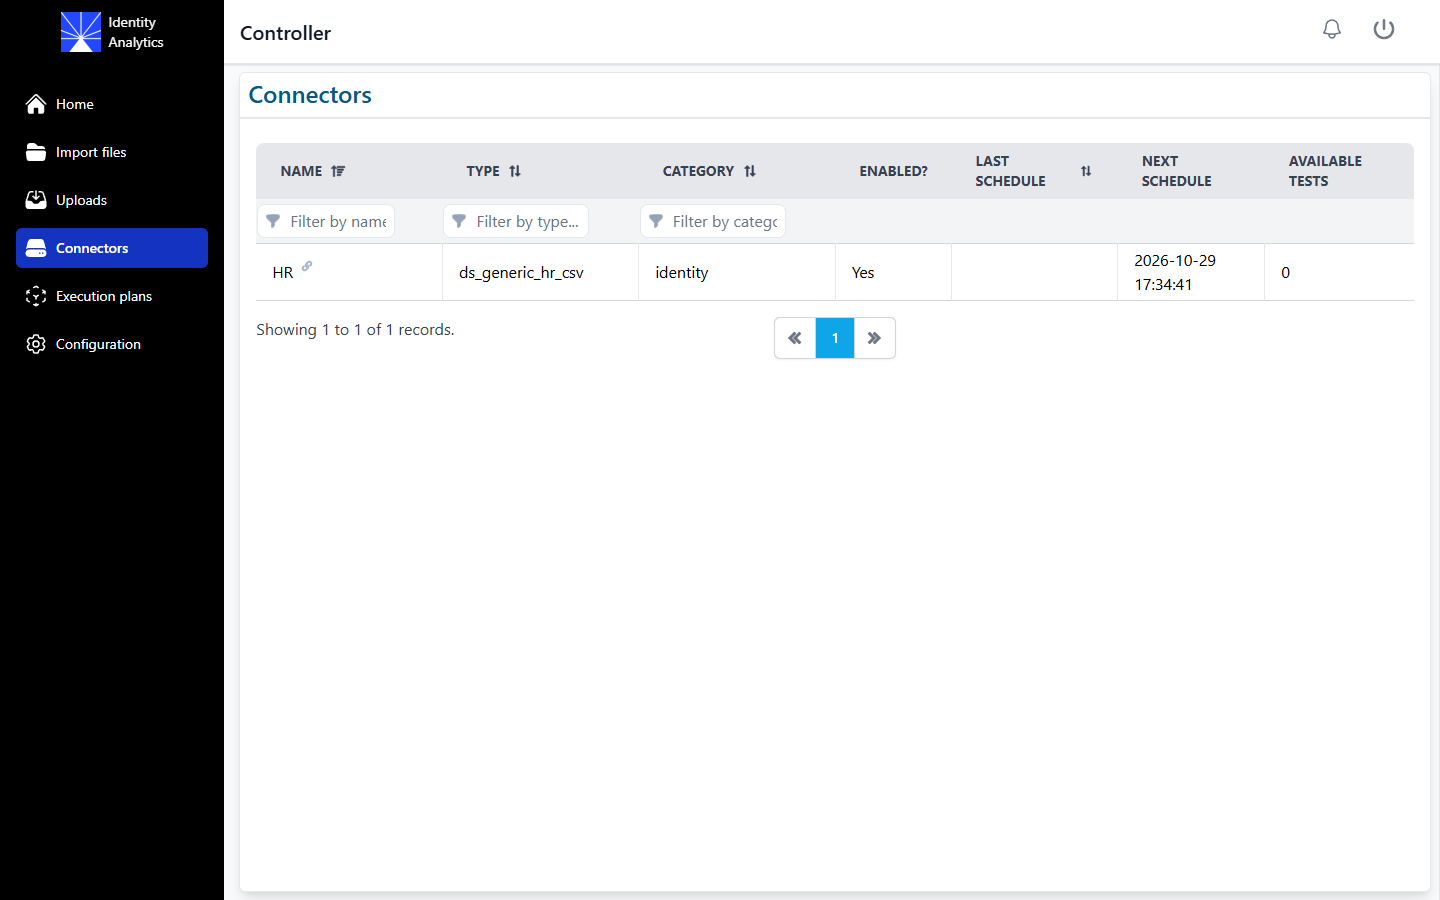
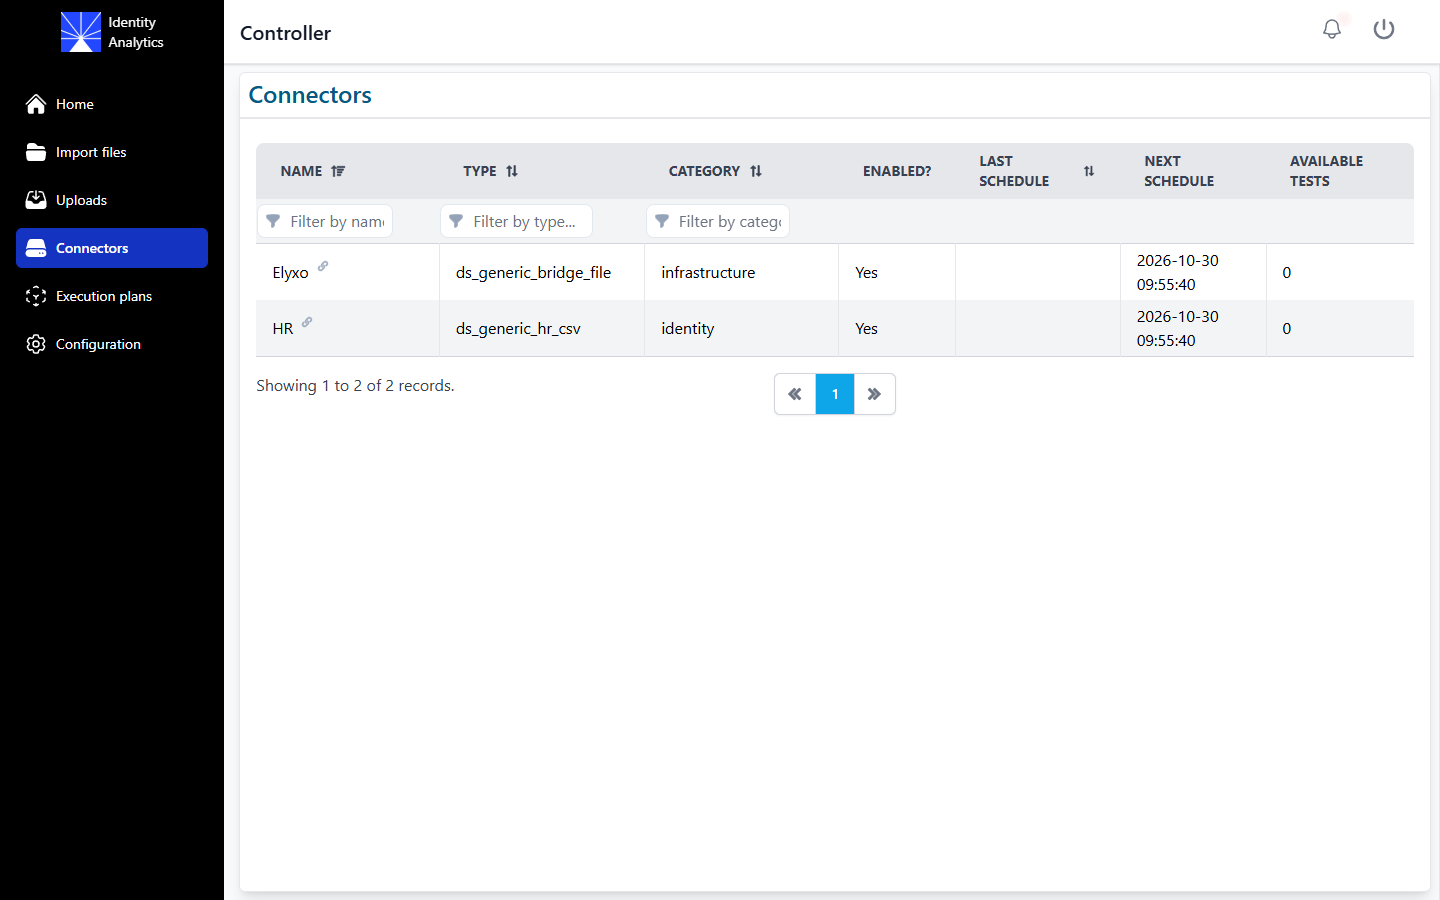
SQ-2069: Retake the controller screenshots after a successful plan
Home, import files, uploads, connectors and events now show two data
sources and a completed plan. Mention the Available tests column.

diff --git a/documentation/igrc-platform/self-managed/09-components/controller.md b/documentation/igrc-platform/self-managed/09-components/controller.md
@@ -49,7 +49,7 @@ The **Active?** column shows whether each file of the upload is still in the imp
 
 ![Connectors page](images/controller-connectors.png "Connectors page")
 
-This page lists the connectors declared in the portal, with their type, their category, whether they are enabled, and the dates of their last and next scheduled runs. The next run date can be in the past when the scheduling of the extractions is disabled in the configuration interface.
+This page lists the connectors declared in the portal, with their type, their category, whether they are enabled, the dates of their last and next scheduled runs, and the number of test results available (**Available tests**, see below). The next run date can be in the past when the scheduling of the extractions is disabled in the configuration interface.
 
 Click a connector to open its details:
 
